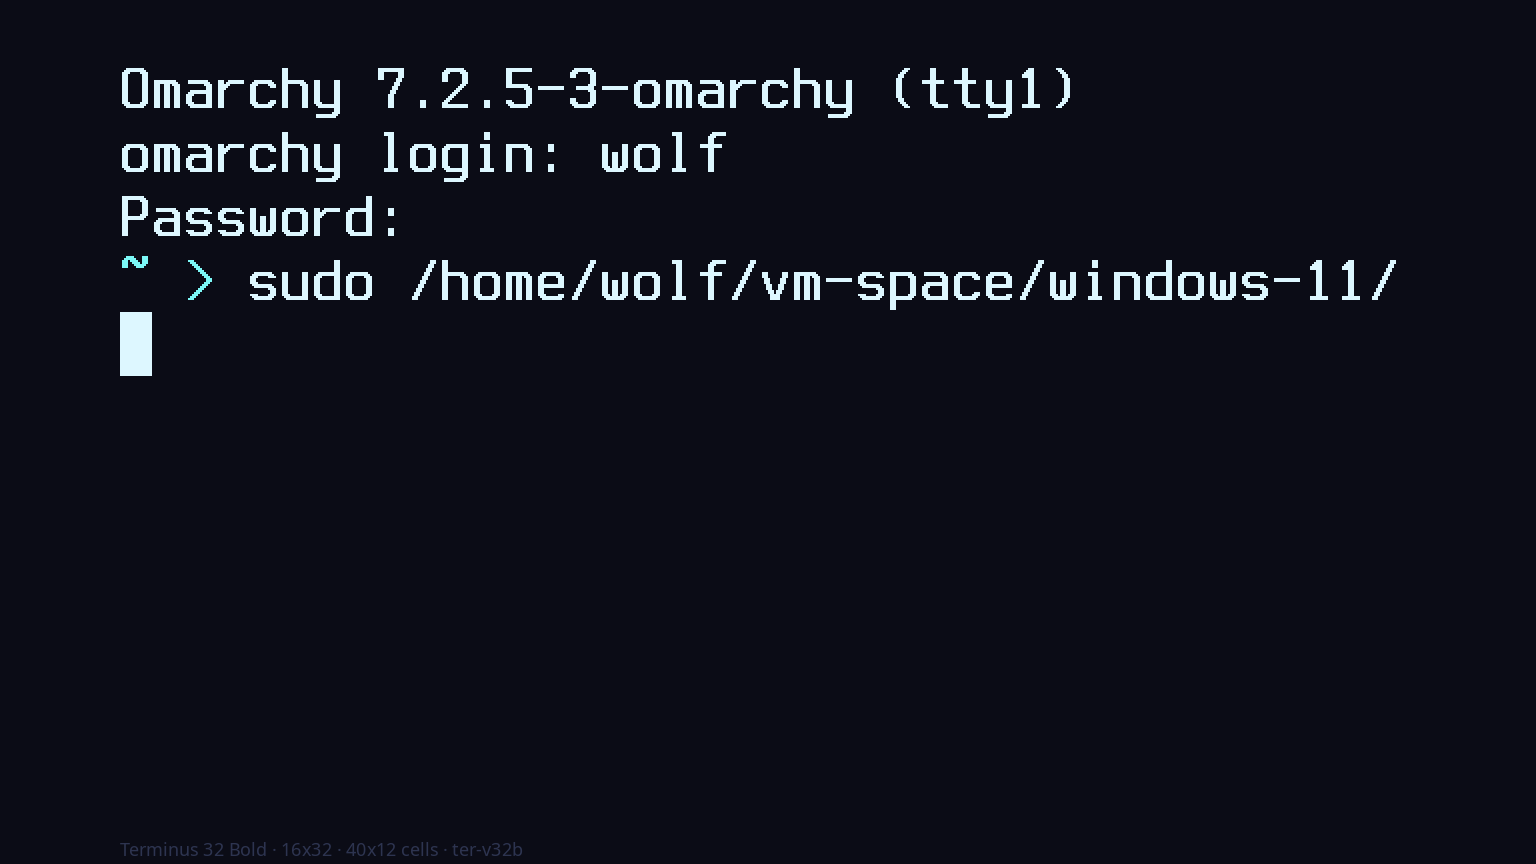
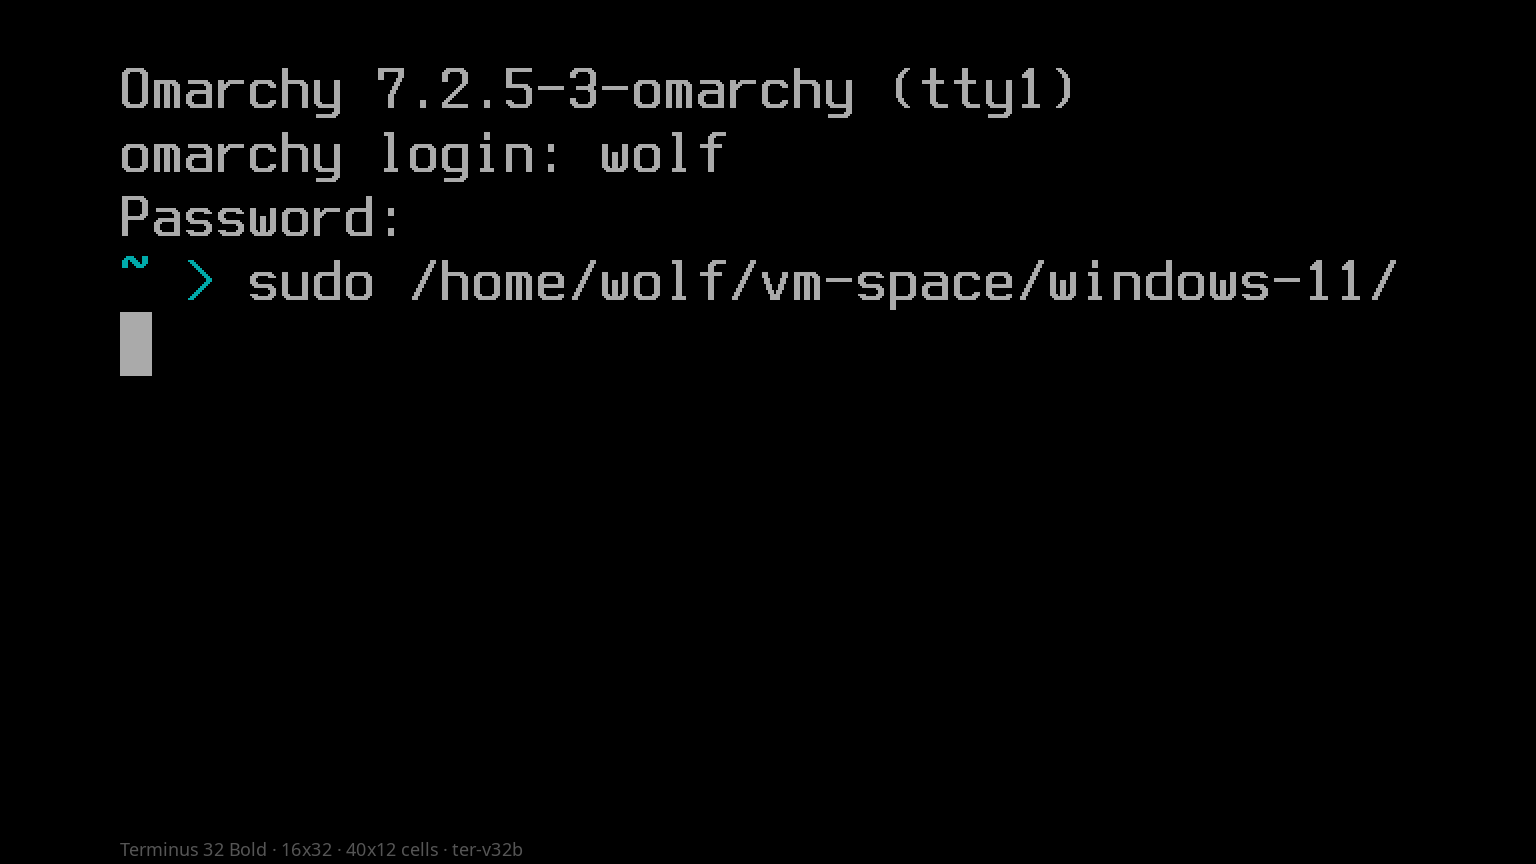
Lock OmaTTY mockups to VGA Default; leave palette theming to OmaVT.

diff --git a/lib/omatty.py b/lib/omatty.py
@@ -495,38 +495,21 @@ def pretty_label(font_id: str) -> str:
 
 
 def theme_colors() -> dict[str, str]:
-    """Pull a rough palette from the active Omarchy theme when present."""
-    name_path = home() / ".local/state/omarchy/current/theme.name"
-    slug = ""
-    if name_path.is_file():
-        slug = name_path.read_text(encoding="utf-8").strip().lower().replace(" ", "-")
-    for root in (home() / ".config/omarchy/themes", Path("/usr/share/omarchy/themes")):
-        colors = root / slug / "colors.toml" if slug else None
-        if colors and colors.is_file():
-            data: dict[str, str] = {}
-            for line in colors.read_text(encoding="utf-8").splitlines():
-                stripped = line.strip()
-                if not stripped or stripped.startswith("#") or "=" not in stripped:
-                    continue
-                key, _, value = stripped.partition("=")
-                data[key.strip()] = value.strip().strip('"').strip("'")
-            return {
-                "bg": data.get("background", "#1a1b26"),
-                "fg": data.get("bright_foreground", data.get("foreground", "#c0caf5")),
-                "accent": data.get("accent", data.get("cyan", "#7dcfff")),
-                "muted": data.get("muted", "#565f89"),
-                "green": data.get("green", "#9ece6a"),
-                "cyan": data.get("cyan", data.get("accent", "#7dcfff")),
-                "red": data.get("red", "#f7768e"),
-            }
+    """Stock VGA console palette — fonts only; leave theming to OmaVT.
+
+    Mockups stay on the kernel default 16-colour set so the carousel compares
+    faces, not the active desktop theme. Pair with OmaVT when you want the TTY
+    palette to follow `colors.toml`.
+    """
+    # Same RGB as OmaVT's `default` / classic Linux VT (VGA).
     return {
-        "bg": "#1a1b26",
-        "fg": "#c0caf5",
-        "accent": "#7dcfff",
-        "muted": "#565f89",
-        "green": "#9ece6a",
-        "cyan": "#7dcfff",
-        "red": "#f7768e",
+        "bg": "#000000",
+        "fg": "#aaaaaa",
+        "accent": "#00aa00",
+        "muted": "#555555",
+        "green": "#00aa00",
+        "cyan": "#00aaaa",
+        "red": "#aa0000",
     }
 
 
@@ -557,7 +540,7 @@ def preview_path(font_id: str) -> Path:
 
 
 # Bump when PSF mockup chrome / session script changes so cached tiles re-draw.
-MOCKUP_LAYOUT_VERSION = "3"
+MOCKUP_LAYOUT_VERSION = "4"
 
 
 def _input_token(path: Path | None) -> str:
@@ -590,20 +573,6 @@ def _write_preview_meta(dest: Path, fingerprint: str) -> None:
         pass
 
 
-def _active_colors_path() -> Path | None:
-    name_path = home() / ".local/state/omarchy/current/theme.name"
-    slug = ""
-    if name_path.is_file():
-        slug = name_path.read_text(encoding="utf-8").strip().lower().replace(" ", "-")
-    if not slug:
-        return None
-    for root in (home() / ".config/omarchy/themes", Path("/usr/share/omarchy/themes")):
-        colors = root / slug / "colors.toml"
-        if colors.is_file():
-            return colors
-    return None
-
-
 def _kernel_release() -> str:
     try:
         return subprocess.check_output(
@@ -619,7 +588,7 @@ def _preview_fingerprint(font_id: str) -> str:
     return (
         f"layout:{MOCKUP_LAYOUT_VERSION}"
         f"|font:{_input_token(font_path)}"
-        f"|colors:{_input_token(_active_colors_path())}"
+        f"|colors:vga-default"
         f"|uname:{_kernel_release()}"
         f"|id:{font_id}"
     )
@@ -852,7 +821,6 @@ def generate_all_previews() -> list[Path]:
             existing.unlink(missing_ok=True)
             _preview_meta_path(existing).unlink(missing_ok=True)
     # Shared across fonts — compute once so hit path stays cheap.
-    colors_tok = _input_token(_active_colors_path())
     uname = _kernel_release()
     dirty: list[str] = []
     for item in CURATED:
@@ -861,7 +829,7 @@ def generate_all_previews() -> list[Path]:
         fp = (
             f"layout:{MOCKUP_LAYOUT_VERSION}"
             f"|font:{_input_token(font_path)}"
-            f"|colors:{colors_tok}"
+            f"|colors:vga-default"
             f"|uname:{uname}"
             f"|id:{font_id}"
         )

diff --git a/README.md b/README.md
@@ -38,7 +38,7 @@ live in [Chroma](https://github.com/AlxWolfenstein97/chroma).
 | Closest-to-real mockups | Actual PSF bitmaps on a top-left getty session (same script as OmaVT). Still not a live `/dev/tty` capture. |
 | Carousel-safe | Mockups are 1536×864 with ~8% side inset. Session stays top-left *inside* that margin; bigger faces crop mid-command like a real framebuffer. |
 | Curated, not exhaustive | archinstall lists every console font; Style keeps a Terminus-first set so the picker stays usable. |
-| Snappy pickers | Mockups warm in parallel across CPU cores and **skip tiles whose font / active `colors.toml` / layout haven’t changed** — reopen is near-instant. On par with Omarchy’s stock Style carousels. |
+| Snappy pickers | Mockups warm in parallel across CPU cores and **skip tiles whose font / layout haven’t changed** — reopen is near-instant. On par with Omarchy’s stock Style carousels. |
 
 ### Why a Style picker for fonts?
 
@@ -72,9 +72,11 @@ Same getty script as [OmaVT](https://github.com/AlxWolfenstein97/omavt) — bann
 `wolf` login, `~ > sudo …/single-gpu-start.sh` — but every cell is a **real
 console glyph** from the PSF you are picking. Layout from a QEMU default-TTY
 capture (nested Omarchy, SDDM off → **tty1**; no GPU passthrough so F-keys stay
-on the host). Themes are not asked for font art.
+on the host). Paint stays on the **stock VGA Default** palette so the carousel
+compares faces, not themes — [OmaVT](https://github.com/AlxWolfenstein97/omavt)
+owns `colors.toml` → VT colour.
 
-**Compare — real default TTY vs Terminus 32 Bold mockup:**
+**Compare — real default TTY vs Terminus 32 Bold mockup (both VGA Default):**
 
 | Real getty (QEMU, stock face / tty1) | OmaTTY mockup (ter-v32b — path crops) |
 | --- | --- |
@@ -178,8 +180,8 @@ archinstall’s Console font menu is exhaustive on purpose. For a Style carousel
 only keep faces you can tell apart at a glance: the Arch default, two useful kbd
 fonts, and every Terminus Unicode size/weight the package ships — not a full
 archinstall clone, just the part that earns its keep. Mockups warm in parallel
-across CPU cores and **skip tiles whose font / active `colors.toml` / layout
-haven’t changed** — same snappy reopen as the other Style extenders.
+across CPU cores and **skip tiles whose font / layout haven’t changed** — same
+snappy reopen as the other Style extenders.
 
 ## Check
 
@@ -191,7 +193,8 @@ bash ~/.config/omarchy/plugins/io.github.alxwolfenstein97.omatty/check.sh
 
 - **Layout reference:** [`reference-tty-default.png`](reference-tty-default.png)
   — QEMU getty on tty1 (SDDM off in a nested Omarchy VM). Same session script as
-  OmaVT; this plugin paints it with real PSF glyphs. Hero: **Terminus 32 Bold**.
+  OmaVT; this plugin paints it with real PSF glyphs on **VGA Default** (palette
+  theming is OmaVT’s job). Hero: **Terminus 32 Bold**.
 - Sibling Style plugins: [OmaBoot](https://github.com/AlxWolfenstein97/omaboot),
   [OmaVT](https://github.com/AlxWolfenstein97/omavt),
   [OmaOBS](https://github.com/AlxWolfenstein97/omaobs),
